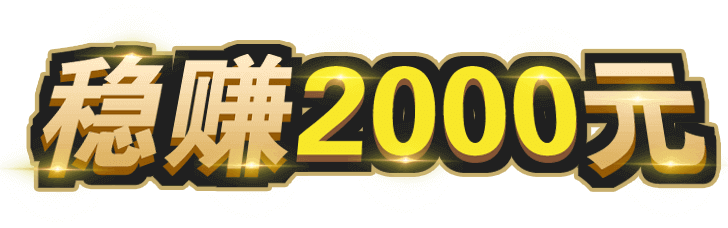
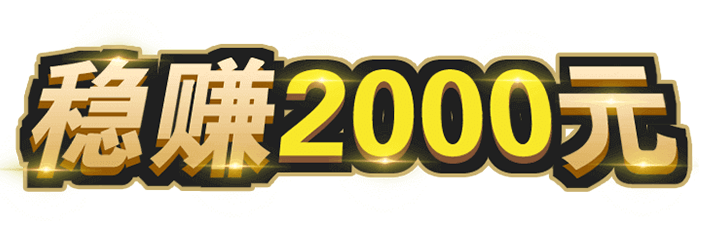
last

diff --git a/css/styles.css b/css/styles.css
@@ -10,7 +10,9 @@ body {
   /* 遮罩层 */
 }
 html section.page > div:nth-child(1),
-body section.page > div:nth-child(1) {
+body section.page > div:nth-child(1),
+html section.page_two > div:nth-child(1),
+body section.page_two > div:nth-child(1) {
   width: 7.5rem;
   height: 5.2rem;
   background: url('../images/f_top.png') no-repeat;
@@ -18,19 +20,23 @@ body section.page > div:nth-child(1) {
   position: relative;
 }
 html section.page > div:nth-child(1) > p,
-body section.page > div:nth-child(1) > p {
+body section.page > div:nth-child(1) > p,
+html section.page_two > div:nth-child(1) > p,
+body section.page_two > div:nth-child(1) > p {
   position: absolute;
   top: .74rem;
   left: 0;
   right: 0;
   margin: auto;
-  width: 7.28rem;
+  width: 7.09rem;
   height: 2.28rem;
   background: url('../images/f_title.png') no-repeat;
   background-size: cover;
 }
 html section.page > div:nth-child(2),
-body section.page > div:nth-child(2) {
+body section.page > div:nth-child(2),
+html section.page_two > div:nth-child(2),
+body section.page_two > div:nth-child(2) {
   width: 6.88rem;
   height: 19.03rem;
   background: url('../images/biankuang.png') no-repeat;
@@ -47,7 +53,9 @@ body section.page > div:nth-child(2) {
   z-index: 1;
 }
 html section.page > div:nth-child(2) > div,
-body section.page > div:nth-child(2) > div {
+body section.page > div:nth-child(2) > div,
+html section.page_two > div:nth-child(2) > div,
+body section.page_two > div:nth-child(2) > div {
   width: 6.76rem;
   height: 18.91rem;
   border-radius: .2rem;
@@ -56,13 +64,17 @@ body section.page > div:nth-child(2) > div {
   background-color: #1e1209;
 }
 html section.page > div:nth-child(2) > div > div,
-body section.page > div:nth-child(2) > div > div {
+body section.page > div:nth-child(2) > div > div,
+html section.page_two > div:nth-child(2) > div > div,
+body section.page_two > div:nth-child(2) > div > div {
   display: flex;
   flex-direction: column;
   align-items: center;
 }
 html section.page > div:nth-child(2) > div > div:nth-child(1),
-body section.page > div:nth-child(2) > div > div:nth-child(1) {
+body section.page > div:nth-child(2) > div > div:nth-child(1),
+html section.page_two > div:nth-child(2) > div > div:nth-child(1),
+body section.page_two > div:nth-child(2) > div > div:nth-child(1) {
   height: 1.27rem;
   width: 5.94rem;
   margin: 0 auto;
@@ -72,8 +84,16 @@ body section.page > div:nth-child(2) > div > div:nth-child(1) {
   align-items: center;
   font-size: .24rem;
 }
+html section.page > div:nth-child(2) > div > div:nth-child(1) > p:nth-child(3) > span,
+body section.page > div:nth-child(2) > div > div:nth-child(1) > p:nth-child(3) > span,
+html section.page_two > div:nth-child(2) > div > div:nth-child(1) > p:nth-child(3) > span,
+body section.page_two > div:nth-child(2) > div > div:nth-child(1) > p:nth-child(3) > span {
+  color: #eca31f;
+}
 html section.page > div:nth-child(2) > div > div:nth-child(2) > div:nth-child(1),
-body section.page > div:nth-child(2) > div > div:nth-child(2) > div:nth-child(1) {
+body section.page > div:nth-child(2) > div > div:nth-child(2) > div:nth-child(1),
+html section.page_two > div:nth-child(2) > div > div:nth-child(2) > div:nth-child(1),
+body section.page_two > div:nth-child(2) > div > div:nth-child(2) > div:nth-child(1) {
   width: 5.76rem;
   height: .8rem;
   background: url('../images/f_01.png') no-repeat;
@@ -81,7 +101,9 @@ body section.page > div:nth-child(2) > div > div:nth-child(2) > div:nth-child(1)
   margin: .48rem auto;
 }
 html section.page > div:nth-child(2) > div > div:nth-child(2) > div:nth-child(2) > p,
-body section.page > div:nth-child(2) > div > div:nth-child(2) > div:nth-child(2) > p {
+body section.page > div:nth-child(2) > div > div:nth-child(2) > div:nth-child(2) > p,
+html section.page_two > div:nth-child(2) > div > div:nth-child(2) > div:nth-child(2) > p,
+body section.page_two > div:nth-child(2) > div > div:nth-child(2) > div:nth-child(2) > p {
   width: 6.21rem;
   height: 1.55rem;
   background: url('../images/bk_x.png') no-repeat;
@@ -95,24 +117,32 @@ body section.page > div:nth-child(2) > div > div:nth-child(2) > div:nth-child(2)
   box-sizing: border-box;
 }
 html section.page > div:nth-child(2) > div > div:nth-child(2) > div:nth-child(2) > p:nth-child(3),
-body section.page > div:nth-child(2) > div > div:nth-child(2) > div:nth-child(2) > p:nth-child(3) {
+body section.page > div:nth-child(2) > div > div:nth-child(2) > div:nth-child(2) > p:nth-child(3),
+html section.page_two > div:nth-child(2) > div > div:nth-child(2) > div:nth-child(2) > p:nth-child(3),
+body section.page_two > div:nth-child(2) > div > div:nth-child(2) > div:nth-child(2) > p:nth-child(3) {
   width: 6.21rem;
   height: 2.03rem;
   background: url('../images/bk_x_01.png') no-repeat;
   background-size: cover;
 }
 html section.page > div:nth-child(2) > div > div:nth-child(2) > div:nth-child(2) > p > span,
-body section.page > div:nth-child(2) > div > div:nth-child(2) > div:nth-child(2) > p > span {
+body section.page > div:nth-child(2) > div > div:nth-child(2) > div:nth-child(2) > p > span,
+html section.page_two > div:nth-child(2) > div > div:nth-child(2) > div:nth-child(2) > p > span,
+body section.page_two > div:nth-child(2) > div > div:nth-child(2) > div:nth-child(2) > p > span {
   display: inline-block;
   font-size: .24rem;
 }
 html section.page > div:nth-child(2) > div > div:nth-child(2) > div:nth-child(2) > p > span:nth-child(1),
-body section.page > div:nth-child(2) > div > div:nth-child(2) > div:nth-child(2) > p > span:nth-child(1) {
+body section.page > div:nth-child(2) > div > div:nth-child(2) > div:nth-child(2) > p > span:nth-child(1),
+html section.page_two > div:nth-child(2) > div > div:nth-child(2) > div:nth-child(2) > p > span:nth-child(1),
+body section.page_two > div:nth-child(2) > div > div:nth-child(2) > div:nth-child(2) > p > span:nth-child(1) {
   font-size: .4rem;
   color: #eca31f;
 }
 html section.page > div:nth-child(2) > div > div:nth-child(2) > a,
-body section.page > div:nth-child(2) > div > div:nth-child(2) > a {
+body section.page > div:nth-child(2) > div > div:nth-child(2) > a,
+html section.page_two > div:nth-child(2) > div > div:nth-child(2) > a,
+body section.page_two > div:nth-child(2) > div > div:nth-child(2) > a {
   display: inline-block;
   width: 3.15rem;
   height: .84rem;
@@ -125,7 +155,9 @@ body section.page > div:nth-child(2) > div > div:nth-child(2) > a {
   margin-top: .26rem;
 }
 html section.page > div:nth-child(2) > div > div:nth-child(3) > div:nth-child(1),
-body section.page > div:nth-child(2) > div > div:nth-child(3) > div:nth-child(1) {
+body section.page > div:nth-child(2) > div > div:nth-child(3) > div:nth-child(1),
+html section.page_two > div:nth-child(2) > div > div:nth-child(3) > div:nth-child(1),
+body section.page_two > div:nth-child(2) > div > div:nth-child(3) > div:nth-child(1) {
   width: 3.79rem;
   height: .25rem;
   background: url('../images/f_02.png') no-repeat;
@@ -133,23 +165,41 @@ body section.page > div:nth-child(2) > div > div:nth-child(3) > div:nth-child(1)
   margin: .6rem 0 0;
 }
 html section.page > div:nth-child(2) > div > div:nth-child(3) > div:nth-child(2),
-body section.page > div:nth-child(2) > div > div:nth-child(3) > div:nth-child(2) {
+body section.page > div:nth-child(2) > div > div:nth-child(3) > div:nth-child(2),
+html section.page_two > div:nth-child(2) > div > div:nth-child(3) > div:nth-child(2),
+body section.page_two > div:nth-child(2) > div > div:nth-child(3) > div:nth-child(2) {
   width: 6.25rem;
   height: 7.21rem;
   display: flex;
   align-items: flex-end;
 }
 html section.page > div:nth-child(2) > div > div:nth-child(3) > div:nth-child(2) > ul,
-body section.page > div:nth-child(2) > div > div:nth-child(3) > div:nth-child(2) > ul {
+body section.page > div:nth-child(2) > div > div:nth-child(3) > div:nth-child(2) > ul,
+html section.page_two > div:nth-child(2) > div > div:nth-child(3) > div:nth-child(2) > ul,
+body section.page_two > div:nth-child(2) > div > div:nth-child(3) > div:nth-child(2) > ul {
   width: 6.21rem;
   height: 6.8rem;
   overflow-y: scroll;
   font-size: .22rem;
 }
 html section.page > div:nth-child(2) > div > div:nth-child(3) > div:nth-child(2) > ul > li,
-body section.page > div:nth-child(2) > div > div:nth-child(3) > div:nth-child(2) > ul > li {
+body section.page > div:nth-child(2) > div > div:nth-child(3) > div:nth-child(2) > ul > li,
+html section.page_two > div:nth-child(2) > div > div:nth-child(3) > div:nth-child(2) > ul > li,
+body section.page_two > div:nth-child(2) > div > div:nth-child(3) > div:nth-child(2) > ul > li {
   text-align: justify;
   line-height: .45rem;
+}
+html section.page_two > div:nth-child(1) > p,
+body section.page_two > div:nth-child(1) > p {
+  position: absolute;
+  top: .74rem;
+  left: 0;
+  right: 0;
+  margin: auto;
+  width: 7.09rem;
+  height: 2.28rem;
+  background: url('../images/s_title.png') no-repeat;
+  background-size: cover;
 }
 html section.mask,
 body section.mask {

diff --git a/return.html b/return.html
@@ -11,7 +11,7 @@
     <script src="js/fastclick.js"></script>
 </head>
 <body>
-    <section class="page">
+    <section class="page_two">
         <div><p></p></div>
         <div>
             <!-- 内容 -->
@@ -19,13 +19,13 @@
                 <div>
                     <p>如何用话费余额赚上一笔？ </p>
                     <p>股票波动太大，想要赚的更稳健？</p>
-                    <p>北京移动为您奉上存<span>100</span> 元稳赚<span>1000</span> 元话费的机会！</p>
+                    <p>北京移动为您奉上存<span>200</span> 元稳赚<span>2000</span> 元话费的机会！</p>
                 </div>
                 <div>
                     <div></div>
                     <div>
                         <p>
-                            <span>预存100元</span>
+                            <span>预存200元</span>
                             <span> 每月返还5元连返20个月</span>
                         </p>
                         <p>
@@ -33,7 +33,7 @@
                             <span> 3GB国内流量+  30分钟全国语音</span>
                         </p>
                         <p>
-                            <span>次月立得1000元话费</span>
+                            <span>次月立得2000元话费</span>
                             <span>可用于冲抵客户承诺营销活动以外的语音 </span>
                             <span>短信、流量费用（含国际业务）</span>
                         </p>
@@ -44,13 +44,14 @@
                     <div></div>
                     <div>
                         <ul>  
-                            <li>预存100返1000</li>
-                            <li>1. 活动限实名认证用户参与，参与活动要求主帐户余额大于100元。</li>
-                            <li>2. 返还话费于活动生效首月起，每月返还5元至副账户中，连返20个月。</li>
-                            <li>3. 赠送话费于活动生效首月，一次性赠送1000元至专项账户，可用于冲抵承诺低消类营销活动以外的语音、短信、流量费用（含国际业务），不能用于通信账户支付和代收费业务，且不能开具发票。</li>
+                            <li>预存200返2000</li>
+                            <li>1. 活动限实名认证用户参与，参与活动要求主帐户余额大于200元。</li>
+                            <li>2. 返还话费于活动生效首月起，每月返还10元至副账户中，连返20个月。</li>
+                            <li>3.赠送话费于活动生效首月，一次性赠送2000元至专项账户，可用于冲抵承诺低消类营销活动以外的语音、短信、流量费用（含国际业务），不能用于通信账户支付和代收费业务，且不能开具发票。</li>
                             <li>4. 活动有效期20个月，当月办理/取消，下月生效。有效期内不能取消指定套餐，不能变更为低于本活动档位费用的套餐。可通过营业厅取消活动方案，取消活动将收取已使用的赠送话费等额违约金，未使用的赠送话费清零。</li>
                             <li>5. 本方案与预存换机等方案互斥，若您同时办理了与本活动不互斥且有最低承诺消费的方案时，承诺方案将叠加。</li>
-                            <li>6.  办理本业务后，原则上不得办理转户、合户、分户、销户业务，但客户由于特殊原因办理上述业务时，可先取消方案再办理上述业务。</li>
+                            <li>6.办理本业务后，原则上不得办理转户、合户、分户、销户业务，但客户由于特殊原因办理上述业务时，可先取消方案再办理上述业务。</li>
+                            <li>7.指定套餐为放心用套餐，流量可与和家庭、万能副卡共享，主卡需要统一支付，万能副卡将按10元/月/副卡收取副卡费，和家庭业务将按30元/月/副卡收取分享费。</li>
                         </ul>
                     </div>
                 </div>

diff --git a/css/styles.less b/css/styles.less
@@ -4,7 +4,7 @@ html,body{
         min-height: 100%;
         color: #fff1b6;
         font-family: '微软雅黑';
-        section.page{
+        section.page,section.page_two{
             >div{
                 &:nth-child(1){
                     width: 7.5rem;
@@ -18,7 +18,7 @@ html,body{
                         left: 0;
                         right: 0;
                         margin: auto;
-                        width: 7.28rem;
+                        width: 7.09rem;
                         height: 2.28rem;
                         background: url('../images/f_title.png') no-repeat;
                         background-size: cover;
@@ -43,7 +43,7 @@ html,body{
                         width: 6.76rem;
                         height: 18.91rem;
                         border-radius: .2rem;
-                       padding: .42rem 0;
+                        padding: .42rem 0;
                         box-sizing: border-box;
                         background-color: #1e1209;
                         >div{
@@ -59,6 +59,13 @@ html,body{
                                 justify-content: space-between;
                                 align-items: center;
                                 font-size: .24rem;
+                                >p{
+                                    &:nth-child(3){
+                                        >span{
+                                            color: #eca31f;
+                                        }
+                                    }
+                                }
                             }
                             &:nth-child(2){
                                 >div{
@@ -144,6 +151,24 @@ html,body{
                         }
                        
                     }
+                }
+            }
+        }
+        //200返2000
+        section.page_two{
+            >div{
+                &:nth-child(1){
+                    >p{
+                        position: absolute;
+                        top:.74rem;
+                        left: 0;
+                        right: 0;
+                        margin: auto;
+                        width: 7.09rem;
+                        height: 2.28rem;
+                        background: url('../images/s_title.png') no-repeat;
+                        background-size: cover;
+                    }    
                 }
             }
         }
